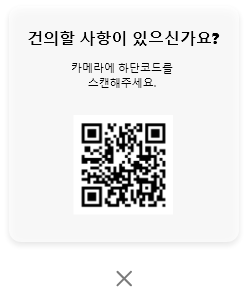
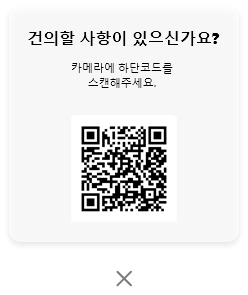
layout, qr-img ~ change

Changed region(s): [[0.3105, 0.3966, 0.6774, 0.7322]]

diff --git a/source/css/layout.css b/source/css/layout.css
@@ -147,24 +147,33 @@ div#popup_answer_con #bt_ans_con_close{top:48.5vh; left:-34.5vw;width: 8vw;z-ind
         margin-left: auto;
     }
     #complete{width: 23.75vw;height:100vh;}
-    .page{top:-75.1vh;left: -0.02vw;width: 23.73vw;height: 56vh;opacity:1 ;background-color: black;}
+    /* .page{top:-75.1vh;left: -0.02vw;width: 23.73vw;height: 56vh;opacity:1 ;background-color: black;} */
+    .page{top:-78.1vh;left: -0.02vw;width: 23.73vw;height: 56vh;opacity:1 ;background-color: black;}
     .page header {width: 23.73vw;height: 56vh;}
     .page img {width: 23.73vw;height: 56vh;}
     .glide__bullets{transform: translateY(3.3vh) scale(0.75);}
 
-    #bt_contact{top: -72.4vh;left: -0.15vh;width: 10.4vw;opacity: 1;height: 5.4vh;opacity: 1;}
-    #bt_contact_answer{top: -72.4vh;left: 0.45vh;width: 10.4vw;opacity: 1;height: 5.4vh;opacity: 1;}
+    /* #bt_contact{top: -72.4vh;left: -0.15vh;width: 10.4vw;opacity: 1;height: 5.4vh;opacity: 1;}
+    #bt_contact_answer{top: -72.4vh;left: 0.45vh;width: 10.4vw;opacity: 1;height: 5.4vh;opacity: 1;} */
+    #bt_contact{top: -74.4vh;left: -0.15vh;width: 10.4vw;opacity: 1;height: 5.4vh;opacity: 1;}
+    #bt_contact_answer{top: -74.4vh;left: 0.45vh;width: 10.4vw;opacity: 1;height: 5.4vh;opacity: 1;}
     div#popup_qr{top:0vh;left:38.1vw;width: 23.81vw;height: 100vh;}
-    #popup_qr img{top: 49vh; left: 1.35vw;width: 18.5vw;background-color: transparent;}
+    /* #popup_qr img{top: 49vh; left: 1.35vw;width: 18.5vw;background-color: transparent;} */
+    #popup_qr img{top: 46.5vh; left: 1.35vw;width: 18.5vw;background-color: transparent;}
     div#popup_answer{top:0vh;left:38.1vw;width: 23.81vw;height: 100vh;}
-    #popup_answer img{top: 27.8vh; left:0.05vw;width: 21vw;height:60vh;background-color: transparent;opacity: 1;}
-    div#popup_qr #bt_qr_close{top:48vh; left:-9.5vw;width: 2.2vw;}
-    div#popup_answer #bt_ans_close{top:23.8vh; left:-8.5vw;width: 2.5vw;height: 3.5vh;}
-    div#popup_answer #bt_ans_list{top:-19vh; left:1vw;width: 17vw;height: 2vh;}
+    /* #popup_answer img{top: 27.8vh; left:0.05vw;width: 21vw;height:60vh;background-color: transparent;opacity: 1;} */
+    #popup_answer img{top: 19.1vh; left:0.05vw;width: 21vw;height:71vh;background-color: transparent;opacity: 1;}
+    /* div#popup_qr #bt_qr_close{top:48vh; left:-9.5vw;width: 2.2vw;} */
+    div#popup_qr #bt_qr_close{top:45.58vh; left:-9.5vw;width: 2.2vw;}
+    /* div#popup_answer #bt_ans_close{top:23.8vh; left:-8.5vw;width: 2.5vw;height: 3.5vh;} */
+    div#popup_answer #bt_ans_close{top:14vh; left:-8.5vw;width: 2.5vw;height: 3.5vh;}
+    /* div#popup_answer #bt_ans_list{top:-19vh; left:1vw;width: 17vw;height: 2vh;} */
+    div#popup_answer #bt_ans_list{top:-35.5vh; left:1vw;width: 17vw;height: 2vh;}
 
-    div#popup_answer_con{top: 27.8vh; left:39.53vw;background-color: transparent;}
-    #popup_answer_con img{top: 0vh; left: -2vw;width: 21vw;height:60vh;background-color: transparent;opacity: 0.5;}
-    div#popup_answer_con #bt_ans_con_close{top:-0.3vh; left:-11.9vw;width: 2.5vw;height: 3.5vh;}
+    /* div#popup_answer_con{top: 27.8vh; left:39.53vw;background-color: transparent;} */
+    div#popup_answer_con{top: 19.1vh; left:39.53vw;background-color: transparent;}
+    #popup_answer_con img{top: 0vh; left: -2vw;width: 21vw;height:71vh;background-color: transparent;opacity: 1;}
+    div#popup_answer_con #bt_ans_con_close{top:-2vh; left:-11.9vw;width: 2.5vw;height: 3.5vh;}
 }
 
 

diff --git a/index.html b/index.html
@@ -12,7 +12,7 @@
     <!-- <link rel="stylesheet" href="https://cdnjs.cloudflare.com/ajax/libs/materialize/0.100.2/css/materialize.min.css"> -->
 
     <!-- 5초 뒤 사이트 이동 -->
-    <meta http-equiv="refresh" content="5; url=https://docs.google.com/forms/d/1ooGa2IO0RFtNpUXMEwsS0mFIhEOmmaJj2_-tQLvN4u0/edit">
+    <!-- <meta http-equiv="refresh" content="5; url=https://docs.google.com/forms/d/1ooGa2IO0RFtNpUXMEwsS0mFIhEOmmaJj2_-tQLvN4u0/edit"> -->
 </head>
 
 <body>
